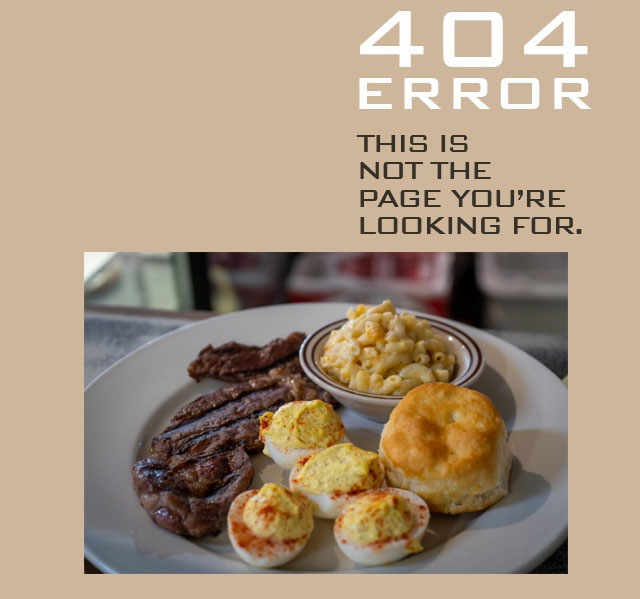
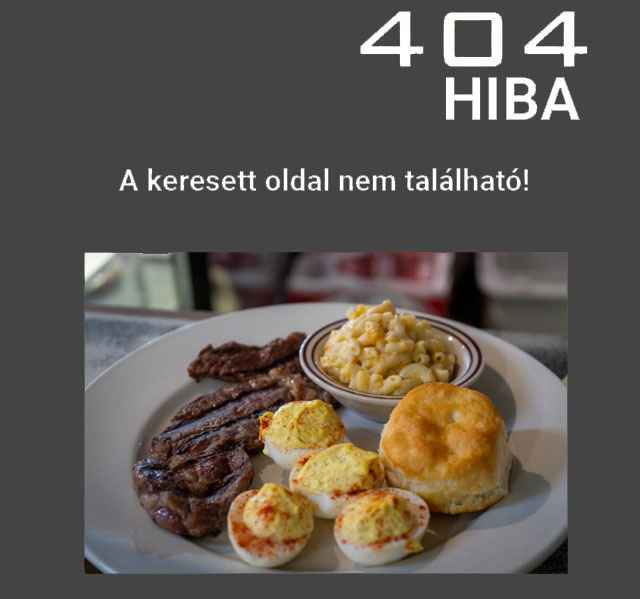
A kesz (24.) hazi feladat

diff --git a/src/app/_services/dish.service.ts b/src/app/_services/dish.service.ts
@@ -1,6 +1,7 @@
 import { HttpClient, HttpHeaders } from '@angular/common/http';
 import { Injectable } from '@angular/core';
 import { Dish } from '@app/_models/dish';
+import { catchError, tap } from 'rxjs/operators';
 import { environment } from 'src/environments/environment';
 
 const httpOption = {
@@ -24,6 +25,24 @@ export class DishService {
   }
 
   addDish(dish: Dish) {
-    return this.http.post<Dish>(`${environment.apiUrl}/posts`, dish, httpOption);
+    return this.http.post<Dish>(`${environment.apiUrl}/posts`, dish, httpOption).pipe(
+      tap(dish => console.log(`inserted dish = ${JSON.stringify(dish)}`)),
+      catchError(error => error)
+    );
+  }
+
+  updateDish(dish: Dish) {
+    return this.http.put<Dish>(`${environment.apiUrl}/posts/${dish.id}`, dish, httpOption).pipe(
+      tap(updatedDish => console.log(`updated dish = ${JSON.stringify(updatedDish)}`)),
+      catchError(error => error)
+    );
+  }
+
+  deleteDish(dishId: Number) {
+    return this.http.delete<Dish>(`${environment.apiUrl}/posts/${dishId}`, httpOption).pipe(
+      tap(() => console.log(`deleted dish with id = ${dishId}`)),
+      catchError(error => error)
+    );
+
   }
 }

diff --git a/src/app/_components/dish-detail/dish-detail.component.ts b/src/app/_components/dish-detail/dish-detail.component.ts
@@ -10,7 +10,7 @@ import { DishService } from '@app/_services';
   styleUrls: ['./dish-detail.component.css']
 })
 export class DishDetailComponent implements OnInit {
-  dish: Dish | undefined;
+  dish!: Dish;
 
   constructor(
     private route: ActivatedRoute,
@@ -29,6 +29,20 @@ export class DishDetailComponent implements OnInit {
         console.log(dish);
         this.dish = dish;
     });
+  }
+
+  save(): void {
+    this.dishService.updateDish(this.dish).subscribe(
+      () => this.goBack()
+    );
+  }
+
+  delete(): void {
+    const id = Number(this.route.snapshot.paramMap.get('id'));
+    confirm("Biztos benne hogy  törli ezt a fogást?")
+    ? this.dishService.deleteDish(id).subscribe(
+      () => this.goBack())
+    : "";
   }
 
   goBack(): void {

diff --git a/src/app/app-routing.module.ts b/src/app/app-routing.module.ts
@@ -1,12 +1,13 @@
 import { NgModule } from '@angular/core';
 import { RouterModule, Routes } from '@angular/router';
-import { DishDashComponent, DishDetailComponent, DishesComponent } from './_components';
+import { DishDashComponent, DishDetailComponent, DishesComponent, PageNotFoundComponent } from './_components';
 
 const routes: Routes = [
   { path: '', redirectTo: '/dishdash', pathMatch: 'full' },
   { path: 'dishes', component: DishesComponent },
   { path: 'dishdash', component: DishDashComponent },
-  { path: 'detail/:id', component: DishDetailComponent }
+  { path: 'detail/:id', component: DishDetailComponent },
+  { path: '**', component: PageNotFoundComponent }
 ];
 
 @NgModule({

diff --git a/src/app/_components/page-not-found/page-not-found.component.spec.ts b/src/app/_components/page-not-found/page-not-found.component.spec.ts
@@ -1,0 +1,23 @@
+import { ComponentFixture, TestBed } from '@angular/core/testing';
+
+import { PageNotFoundComponent } from './page-not-found.component';
+
+describe('PageNotFoundComponent', () => {
+  let component: PageNotFoundComponent;
+  let fixture: ComponentFixture<PageNotFoundComponent>;
+
+  beforeEach(async () => {
+    await TestBed.configureTestingModule({
+      declarations: [ PageNotFoundComponent ]
+    })
+    .compileComponents();
+
+    fixture = TestBed.createComponent(PageNotFoundComponent);
+    component = fixture.componentInstance;
+    fixture.detectChanges();
+  });
+
+  it('should create', () => {
+    expect(component).toBeTruthy();
+  });
+});

diff --git a/src/app/app.module.ts b/src/app/app.module.ts
@@ -6,6 +6,7 @@ import { HttpClientModule } from '@angular/common/http';
 import { AppRoutingModule } from './app-routing.module';
 import { AppComponent } from './app.component';
 import { DishesComponent, DishDetailComponent,  DishDashComponent } from '@app/_components';
+import { PageNotFoundComponent } from './_components/page-not-found/page-not-found.component';
 
 
 
@@ -14,7 +15,8 @@ import { DishesComponent, DishDetailComponent,  DishDashComponent } from '@app/_
     AppComponent,
     DishesComponent,
     DishDetailComponent,
-    DishDashComponent
+    DishDashComponent,
+    PageNotFoundComponent
   ],
   imports: [
     BrowserModule,

diff --git a/src/app/_components/dish-detail/dish-detail.component.html b/src/app/_components/dish-detail/dish-detail.component.html
@@ -5,5 +5,7 @@
       <label for="dish-name">Fogás: </label>
       <input id="dish-name" [(ngModel)]="dish.name" placeholder="név">
     </div>
+    <button (click)="save()">mentés</button>
+    <button (click)="delete()">törlés</button>
     <button type="button" (click)="goBack()">vissza</button>
   </div>

diff --git a/src/app/_components/page-not-found/page-not-found.component.html b/src/app/_components/page-not-found/page-not-found.component.html
@@ -1,0 +1,6 @@
+<div style="margin-top: 10px; text-align: center;">
+    <img src="../../../assets/img/pageNotFound.jpg" alt="pageNotFound">
+    <div style="margin-top: 10px;">
+        Az oldal nem található! Kérjük válasszon másik menüpontot!
+    </div>
+</div>

diff --git a/src/app/_components/page-not-found/page-not-found.component.ts b/src/app/_components/page-not-found/page-not-found.component.ts
@@ -1,0 +1,10 @@
+import { Component } from '@angular/core';
+
+@Component({
+  selector: 'app-page-not-found',
+  templateUrl: './page-not-found.component.html',
+  styleUrls: ['./page-not-found.component.css']
+})
+export class PageNotFoundComponent {
+
+}

diff --git a/src/app/_components/index.ts b/src/app/_components/index.ts
@@ -1,3 +1,4 @@
 export * from './dish-detail/dish-detail.component';
 export * from './dishes/dishes.component';
 export * from './dishdash/dishdash.component';
+export * from './page-not-found/page-not-found.component';

diff --git a/src/app/_components/page-not-found/page-not-found.component.css b/src/app/_components/page-not-found/page-not-found.component.css
@@ -1,0 +1,3 @@
+div {
+    color: #0cc;
+}
